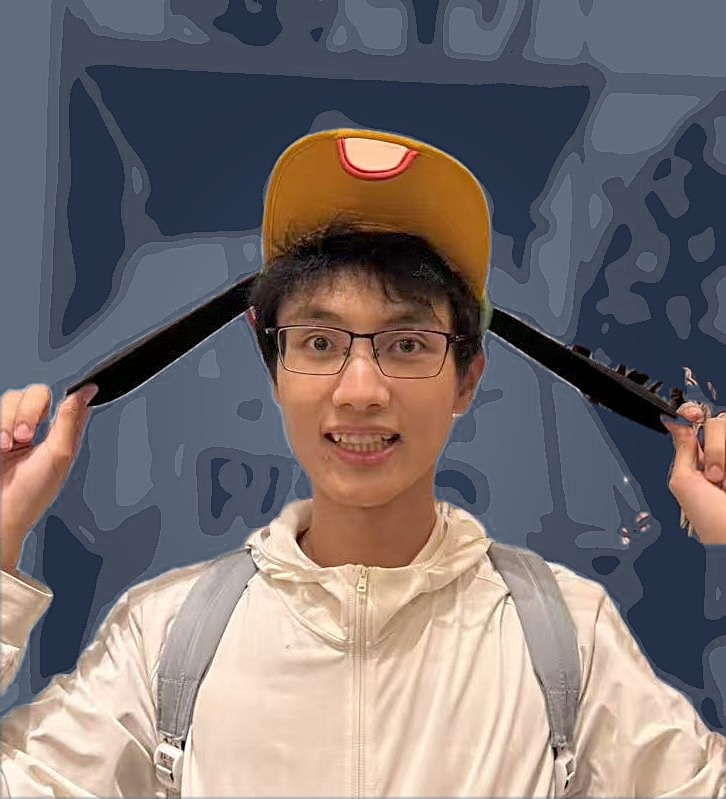
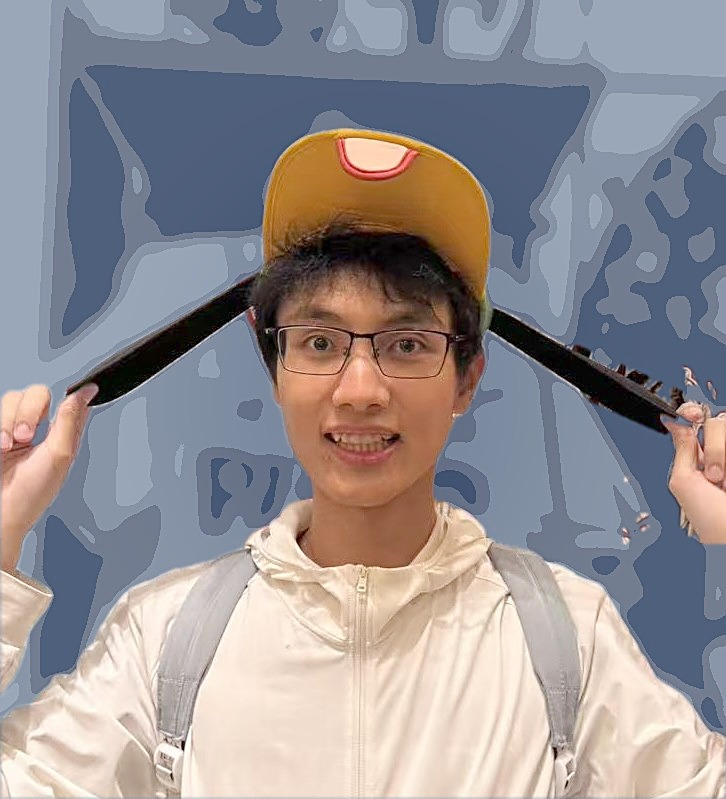
Portrait: lighter surroundings, face tone kept
Re-edit ke_ascii.jpg: background multiplier 0.72 -> 0.95 and a gamma
1.4 lift on everything outside the feathered face mask, face lift
unchanged at gamma 1.18, overall gamma 1.10. Gain 1.1 -> 1.15.

diff --git a/index.md b/index.md
@@ -6,7 +6,7 @@ seo_title: "Ke Wang | Robotics & Robot Learning @ Stanford University"
 ---
 
 <div class="home-intro">
-  <div class="dot-portrait" data-cols="288" data-weight="700" data-lift="1.5" data-sat="1.5" data-gain="1.1"
+  <div class="dot-portrait" data-cols="288" data-weight="700" data-lift="1.5" data-sat="1.5" data-gain="1.15"
        data-src="{{ "/assets/img/ke_ascii.jpg" | relative_url }}"
        role="img" aria-label="Ke Wang, drawn as a colour ASCII portrait">
     <noscript><img src="{{ "/assets/img/ke_ascii.jpg" | relative_url }}" alt="Ke Wang" class="profile-img" /></noscript>
